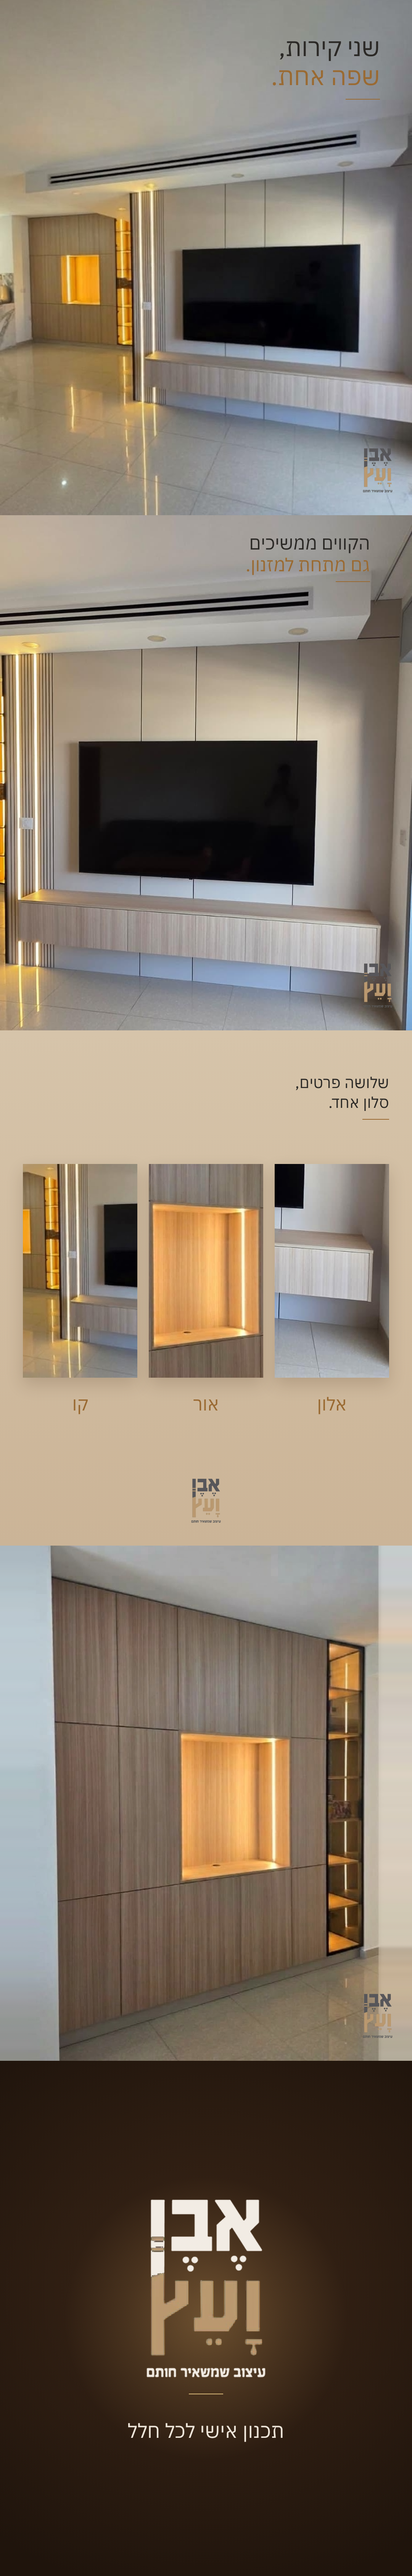
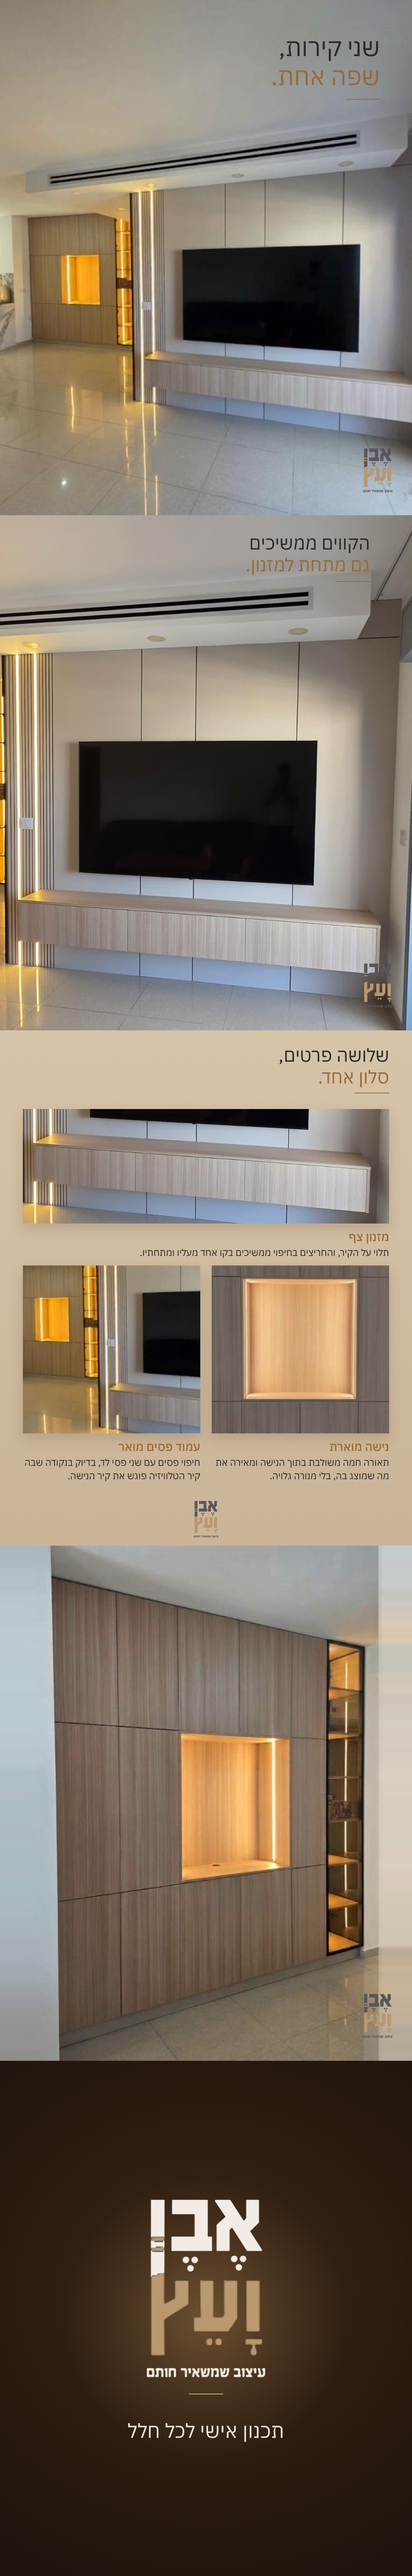
Oak living room post v2: professional detail slide (her note), principle + research
Claude-Session: https://claude.ai/code/session_018GBcWtf2Dx96BqNakmVjJd

Changed region(s): [[0.0306, 0.4044, 0.9472, 0.5911]]

diff --git a/projects/2026-10-oak-living-room/carousel/slides.html b/projects/2026-10-oak-living-room/carousel/slides.html
@@ -2,7 +2,9 @@
 <html lang="he">
 <head>
 <meta charset="UTF-8" />
-<!-- Oak living room post v1 (13.10). "הפוסט הזה מראה ש..." in a well-planned living room every wall continues the one
+<!-- Oak living room post v2 (13.10): slide 3 rebuilt after her note ("סתם מילים... אין פה מקצועיות"; oak crop "כאילו בטעות"):
+     named details + one professional line each (docs/research/2026-10-detail-callouts.md), crops composed on purpose.
+     v1 (13.10). "הפוסט הזה מראה ש..." in a well-planned living room every wall continues the one
      before it: the same oak, the same light, the same lines. Typography = option ג she chose (Plex Regular, small,
      charcoal + caramel-gold, aligned to the work, thin gold rule). Logo small at the bottom of every photo (P11א).
      Photos: her originals cleaned + x2 (work/hq); no grade (dE>2 on the oak, P15). -->
@@ -20,11 +22,12 @@ body{width:1080px}
 .logo{position:absolute;right:48px;bottom:56px;width:84px}
 /* dictionary slide: oak-tone field, three real details, one word each */
 .dict{background:linear-gradient(180deg,#d6c4aa 0%,#cbb497 100%)}
-.dict .k{position:absolute;direction:rtl;right:60px;top:110px;font:400 40px/1.3 "Plex";color:var(--ink);letter-spacing:.01em}
+/* .k unused */ .dict .k{position:absolute;direction:rtl;right:60px;top:110px;font:400 40px/1.3 "Plex";color:var(--ink);letter-spacing:.01em}
 .dict .k i{display:block;width:70px;height:2px;background:var(--gold);margin:18px 0 0 auto}
-.w{position:absolute;top:350px;width:300px;height:560px;box-shadow:0 18px 40px rgba(60,40,20,.18)}
-.w img{width:300px;height:560px;display:block}
-.w b{position:absolute;left:0;right:0;top:604px;direction:rtl;text-align:center;font:400 48px/1 "Plex";color:var(--gold)}
+.d{position:absolute;direction:rtl;text-align:right}
+.d img{display:block;width:100%;box-shadow:0 14px 34px rgba(60,40,20,.16)}
+.d figcaption{margin-top:16px;font:400 25px/1.4 "Plex";color:var(--ink)}
+.d b{display:block;font:500 31px/1.2 "Plex";color:var(--gold);margin-bottom:5px}
 .end{background:radial-gradient(110% 80% at 50% 45%,#3b2617 0%,#1f140c 75%);display:flex;flex-direction:column;align-items:center;justify-content:center}
 .end .glow{position:absolute;left:165px;top:300px;width:750px;height:750px;border-radius:50%;background:radial-gradient(circle,rgba(216,170,100,.32) 0%,rgba(216,170,100,.12) 40%,rgba(216,170,100,0) 70%)}
 .end .lg{position:relative;width:340px}
@@ -44,11 +47,11 @@ body{width:1080px}
   <img class="logo" src="logo_alpha.png" alt="אבן ועץ" />
 </section>
 <section class="slide dict" id="s3">
-  <div class="k">שלושה פרטים,<br />סלון אחד.<i></i></div>
-  <div class="w" style="right:60px"><img src="d_oak.png" alt="" /><b>אלון</b></div>
-  <div class="w" style="right:390px"><img src="d_light.png" alt="" /><b>אור</b></div>
-  <div class="w" style="right:720px"><img src="d_line.png" alt="" /><b>קו</b></div>
-  <img class="logo" src="logo_alpha.png" alt="אבן ועץ" style="right:498px" />
+  <div class="h" style="right:60px;top:36px;font-size:48px">שלושה פרטים,<span>סלון אחד.</span><i style="margin-top:14px"></i></div>
+  <figure class="d" style="right:60px;top:206px;width:960px"><img src="d_console.png" style="height:300px" alt="" /><figcaption><b>מזנון צף</b>תלוי על הקיר, והחריצים בחיפוי ממשיכים בקו אחד מעליו ומתחתיו.</figcaption></figure>
+  <figure class="d" style="right:60px;top:616px;width:465px"><img src="d_niche.png" style="height:440px" alt="" /><figcaption><b>נישה מוארת</b>תאורה חמה משולבת בתוך הנישה ומאירה את מה שמוצג בה, בלי מנורה גלויה.</figcaption></figure>
+  <figure class="d" style="right:555px;top:616px;width:465px"><img src="d_slats.png" style="height:440px" alt="" /><figcaption><b>עמוד פסים מואר</b>חיפוי פסים עם שני פסי לד, בדיוק בנקודה שבה קיר הטלוויזיה פוגש את קיר הנישה.</figcaption></figure>
+  <img class="logo" src="logo_alpha.png" alt="אבן ועץ" style="right:505px;bottom:18px;width:70px" />
 </section>
 <section class="slide" id="s4">
   <img class="full" src="p4.png" alt="" />

diff --git a/projects/2026-10-oak-living-room/flow/post_prep.py b/projects/2026-10-oak-living-room/flow/post_prep.py
@@ -16,9 +16,11 @@ room = cv2.imread(H + '01_room_wide.png'); tv = cv2.imread(H + '04_tv_wall_front
 fit(room, 300, 2220, 'p1.png')          # 1536x1920 = exact 4:5 at full width
 fit(tv, 330, 2580, 'p2.png')            # 1800x2250 = exact 4:5
 fit(ni, 250, 2530, 'p4.png')            # whole wall incl. plinth, sides extended ~40px of plain wall/floor
-# dictionary windows (hq px): oak = console end + grooves, light = niche, line = LED slats + floor reflections
-def win(im, x0, y0, w, h, out, W=300, Hh=560):
-    c = cv2.resize(im[y0:y0+h, x0:x0+w], (W, Hh), interpolation=cv2.INTER_LANCZOS4); cv2.imwrite(C + out, c); print(out, 'x%.2f' % (2*W/w))
-win(tv, 1250, 1760, 480, 896, 'd_oak.png')
-win(ni, 640, 900, 520, 971, 'd_light.png')
-win(room, 340, 1060, 480, 896, 'd_line.png')
+# detail rows (slide 3, v2 after her note): each crop composed on purpose, subject whole and centred (hq px)
+def crop(im, x0, y0, x1, y1, out, W=500, Hh=340):
+    c = im[y0:y1, x0:x1]; s = W / c.shape[1]
+    c = cv2.resize(c, (W, Hh), interpolation=cv2.INTER_AREA if s < 1 else cv2.INTER_LANCZOS4); cv2.imwrite(C + out, c); print(out, 'x%.2f' % (2*s))
+fr = cv2.imread(H + '03_niche_wall_front_install.png')   # frontal niche only (no legs in this crop)
+crop(tv, 30, 1850, 1750, 2387, 'd_console.png', 960, 300)    # the whole floating console, grooves above and below, floor gap
+crop(fr, 386, 970, 1140, 1684, 'd_niche.png', 465, 440)      # lit niche, frontal and centred, oak fronts around
+crop(room, 178, 1116, 922, 1820, 'd_slats.png', 465, 440)    # the joint: niche wall + vitrine | lit slat column | TV wall + console

diff --git a/knowledge/learning/content-log.md b/knowledge/learning/content-log.md
@@ -23,7 +23,7 @@
 
 | 9 | ארון סהרה עם נישת אלון מוארת | (v2) מצלמה אחת, Speed ramp, "מקיר לקיר, / עד התקרה." ← **מהלך חתימה: כל תא בנישה נדלק לבד על הביט עם Punch** ← Pull-out ← 4 דלתות נפתחות בגל סביב נישה דולקת "ובפנים, / כל סנטימטר עובד." ← Whip לנישה עם פריטים "תוכנן / בשבילכם." ← ייעוץ והדמיה | **כותרת מפוצלת טיפוגרפית** (Plex Light + Heebo 850, דיו + אלון) "רוב הארונות / רק מסתירים." ← "זה / גם מציג." (חיתוך נישה), פתוח, שלם, זווית "מה אתם רוצים לראות?", סיום "נתכנן את שלכם." | רילס: חשיפה ופניות (התאמה וניצול חלל). פוסט: פניות (תכנון אישי) | ✅ נמסר |
 
-| 10 | סלון אלון: קיר TV צף + קיר נישה (תמונות דלות) | פריים 0 קיר TV בדחיפה, Hook "קיר טלוויזיה? / זה רק ההתחלה." ← Whip לחדר כולו ← **מהלך חתימה: "ערב יורד"** (גרסת ערב עולה מהרצפה, האור האמיתי נשאר) ← צלילה דרך הנישה לקיר הנישה בערב ← פרץ 4 חלונות על הביט ← החלון נפתח לקיר TV בערב ← האורות חוזרים מלמעלה ← "דברו איתנו / בוואטסאפ" | **Hero שקט (סגנון ג)** "שני קירות, / שפה אחת." + קיר TV "הקווים ממשיכים / גם מתחת למזנון." + **שקף "3 פרטים" על שדה אלון** (אלון / אור / קו) + קיר שלם + לוגו. פנייה: כיתוב | רילס: חשיפה (תכנון החלל כולו). פוסט: אמון (דיוק ותכנון) | ✅ נמסר |
+| 10 | סלון אלון: קיר TV צף + קיר נישה (תמונות דלות) | פריים 0 קיר TV בדחיפה, Hook "קיר טלוויזיה? / זה רק ההתחלה." ← Whip לחדר כולו ← **מהלך חתימה: "ערב יורד"** (גרסת ערב עולה מהרצפה, האור האמיתי נשאר) ← צלילה דרך הנישה לקיר הנישה בערב ← פרץ 4 חלונות על הביט ← החלון נפתח לקיר TV בערב ← האורות חוזרים מלמעלה ← "דברו איתנו / בוואטסאפ" | **Hero שקט (סגנון ג)** "שני קירות, / שפה אחת." + קיר TV "הקווים ממשיכים / גם מתחת למזנון." + **שקף "3 פרטים" מגזיני על שדה אלון** (שם הפתרון + משפט מקצועי) + קיר שלם + לוגו. פנייה: כיתוב | רילס: חשיפה (תכנון החלל כולו). פוסט: אמון (דיוק ותכנון) | ✅ נמסר |
 
 ## מונה סבבים אצלה (יעד: 0–1)
 | פרויקט | סבבים | הערה |
@@ -37,4 +37,4 @@
 | נגרות לכל הבית | 1 (בכרטיס: בלי מנורה) + הערה על צבע בטיוטה (P15) | grade.py שינה גוון; מעכשיו בודקים ΔE מול המקור |
 | ארון סהרה ונישה (הפקה חוזרת v3→v4) | 1 בכרטיס + 1 על v3 (צבע כיתוב ברילס, קצב מעברים, סוף פתיחת הדלתות, שקף 4 חתוך ואיכות) | v2 + צלילה לתקריב חדש; פוסט Plex Regular קטן מיושר לעבודה. שער: RETURN קל (שארית כרטיס, ניגודיות CTA) |
 | ארון סהרה ונישה | 3 בכרטיס (כיתובים) + 4 על טיפוגרפיה בפוסט (עדיין פתוח: "גס מדי") + 1 על הרילס (v2 נאהב) | C5 נוסף; שער: טיפוגרפיה בפוסט חוזקה, "חדר שינה" הוסר מהכיתוב (לא נמסר) |
-| סלון אלון | 0 בכרטיס (מאשרת + 2 הערות כלליות) | שער: RETURN על אמת (קיר הנישה לא אושר כאלון), תוקן בסבב אחד |
+| סלון אלון | 1 (שקף פרטים: מילים בודדות ← שם + הסבר מקצועי; חיתוך אלון מקרי) | שער: RETURN על אמת (קיר הנישה לא אושר כאלון), תוקן לפני מסירה |

diff --git a/knowledge/learning/client-voice.md b/knowledge/learning/client-voice.md
@@ -111,6 +111,8 @@
 
 **P4. חיתוך הוא כלי להדגשה, ובכל פוסט יש גם את התמונות השלמות.**
 - **חיתוך רצוי** כשיש בעבודה משהו ששווה להבליט ולכתוב עליו: נישה עם תאורה, פרט מיוחד, פתרון חכם, חומר יפה. החיתוך יפה: ישר, ממורכז על הפרט, הפרט שלם. הטקסט על השקף מדבר על אותו פרט. דוגמה שלה: בארון עם הנישה והתאורה, "חיתוך יפה באמצע ולכתוב משהו על זה".
+- **שקף פרטים = הסבר מקצועי, לא מילים זרוקות (13.10).** כשמציגים פרטים (חיתוכים), כל פרט מקבל **שם מקצועי של הפתרון + משפט אחד על מה שהוא עושה** (למשל: "מזנון צף" + מה זה נותן). מילה מופשטת בודדת ("אלון", "אור", "קו") נראית כמו "סתם מילים שזרקת" ונפסלה. לפני כתיבה בודקים איך עסקי נגרות ועיצוב מקצועיים מתארים את אותו פרט, וכותבים רק מה שנכון למה שרואים (T1). חל גם על תוויות בפוסטים אחרים ועל כרטיסי פרט ברילס. עוגן: "זה כאילו סתם מילים שזרקת על התמונה אין פה מקצועיות. תחקור... ותביא כיתוב מקצועי".
+- **כל חיתוך מורכב בכוונה:** הפרט שלם וממורכז, ושום דבר לא נחתך "במקרה" בקצה (פינת טלוויזיה, חצי רהיט). חיתוך שנראה מקרי = מחליפים. עוגן: "התמונה של האלון לא יפה זה כאילו בטעות" (13.10).
 - **לא חותכים סתם:** קיר חיפוי רגיל שנחתך בלי פרט מיוחד, חיתוך עקום, חיתוך שמסתיר UI או קוטע את העבודה. אם אין מה להגיד על החלק, לא חותכים.
 - **בכל פוסט יש גם את העבודה השלמה**: כל עבודה שמופיעה בפוסט מוצגת שלמה לפחות פעם אחת. החיתוך מוסיף להן, הוא לא מחליף אותן.
 - עוגן: "חיתוך... זה דווקא רצוי במקרים שיש מה להדגיש... ובלי קשר צריך שבכל הפוסט יהיה גם את התמונות השלמות" (12.10); "יש תמונות שהן חתוכות לא בצורה מחמיאה" (8.10).
@@ -219,7 +221,7 @@
 | P1 | אפשר לנסח משפט "הפוסט הזה מראה ש...", וכל שקף משרת אותו? יש פאנץ' עדין? | | |
 | P2 | עיצוב מושך עין, שונה משני הפוסטים האחרונים, ושייך לשפת הדוגמאות? | | |
 | P3 | הכותרות קשורות לתמונה, עדינות, ועברית תקנית (חרוז רק בצליל)? | | |
-| P4 | כל חיתוך מבליט פרט ששווה לדבר עליו, הוא ישר ויפה, והטקסט מדבר על הפרט? כל עבודה בפוסט מופיעה גם שלמה? | | |
+| P4 | כל חיתוך מבליט פרט ששווה לדבר עליו, מורכב בכוונה (לא נחתך במקרה), והטקסט מסביר אותו מקצועית (שם הפתרון + מה הוא עושה)? כל עבודה בפוסט מופיעה גם שלמה? | | |
 | P5 | נקי, בלי השחרה או פס, והמוצר ברור? צבע החומר כמו במקור (P15)? | | |
 | P6 | בלי שאריות UI ובלי מספור (200% בכל הפינות)? | | |
 | P11 | לפחות 3 תמונות של העבודה, האורך מוצדק ברעיונות, ובסוף **שקף לוגו מלא בשפת סיום הרילס** (לוגו במרכז, בלי פיצול או קולאז')? | | |

diff --git a/docs/research/2026-10-detail-callouts.md b/docs/research/2026-10-detail-callouts.md
@@ -1,0 +1,7 @@
+# שקף פרטים בפוסט: איך עסקים מקצועיים מתארים פרטי נגרות (13.10, אחרי "אלון / אור / קו" שנפסל)
+מקורות: inspiredelements.co.uk (fitted TV units), nathankingsbury.com (bespoke TV & display wall), snowdenworld.com (shadow gap + LED), furnitureinfashion.net (floating TV units), interiorcompany.com (backlit shelves).
+1. **שם הפתרון, לא תכונה מופשטת:** "concealed warm LED lighting", "floating wall unit", "backlit shelving" – הפרט מקבל שם שהלקוח יכול לבקש.
+2. **מיד אחרי השם: מה זה עושה בבית** – "emphasises the floating effect", "illuminates the backs of each cabinet", "display space and indirect light", "minimizes glare". משפט אחד, תועלת אחת.
+3. **אור = עקיף ומשולב, בלי גוף תאורה גלוי** – כך מתארים לד בנגרות; מציינים איפה הוא יושב (בדופן, מאחור, מתחת).
+4. **צף = הרצפה פנויה והקיר נראה קל** – התועלת הנפוצה במזנון תלוי.
+5. **פריסה:** תמונה מורכבת היטב לכל פרט + כותרת קצרה במשקל בינוני + שורת הסבר דקה. בלי מספור שקפים.

diff --git a/projects/2026-10-oak-living-room/PROJECT.md b/projects/2026-10-oak-living-room/PROJECT.md
@@ -35,3 +35,4 @@
 - ערב: `flow/night.py` (החדר מחשיך, פיקסלי האור המקוריים נשמרים). grade.py הוזז ΔE>2 על האלון ← מקור (P15).
 - שער משולב: RETURN ← תוקן בסבב אחד: הוסרה הטענה שקיר הנישה מאלון (שקף 3 "שלושה פרטים, / סלון אחד.", כיתובים), כרטיס 3 "האור / חלק מהנגרות.", שקף 4 שלם עם תקרה, נקודת אור ברצפה בגרסת הערב. reel_qa PASS.
 - נמסר v1 (13.10).
+- סבב 1 אצלה (13.10): "אלון, אור, קו זה כאילו סתם מילים... אין פה מקצועיות. תחקור... ותביא כיתוב מקצועי" + "התמונה של האלון לא יפה זה כאילו בטעות" ← עיקרון ב-client-voice (P4), מחקר `docs/research/2026-10-detail-callouts.md`. שקף 3 נבנה מחדש: מזנון צף (רוחב מלא) / נישה מוארת (חזיתית) / עמוד פסים מואר, שם + משפט מקצועי לכל פרט. כיתוב פייסבוק לפוסט עודכן. נמסר v2.

diff --git a/projects/2026-10-oak-living-room/output/captions.md b/projects/2026-10-oak-living-room/output/captions.md
@@ -18,8 +18,8 @@
 #עיצובפנים #נגרות #קירטלוויזיה #נישהמוארת #אבןועץ
 
 ## פוסט · פייסבוק
-קו. אור. דיוק.
-בסלון הזה שני קירות שונים מדברים באותה שפה: קיר הטלוויזיה עם החיפוי והמזנון הצף מאלון, וקיר הנישה המוארת עם המדפים. כל פרט תוכנן כך שימשיך את הקודם, עד החריצים בחיפוי שממשיכים בדיוק גם מתחת למזנון.
+מזנון צף, נישה מוארת ועמוד פסים עם לד: שלושה פרטים שהופכים שני קירות לסלון אחד.
+קיר הטלוויזיה עם החיפוי והמזנון הצף מאלון, ומולו קיר הנישה המוארת עם המדפים. כל פרט תוכנן כך שימשיך את הקודם, עד החריצים בחיפוי שממשיכים בדיוק גם מתחת למזנון.
 מתכננים סלון חדש? דברו איתנו, נשמח לייעץ, וההדמיה עלינו.
 
 ## מוזיקה מומלצת (רילס)
